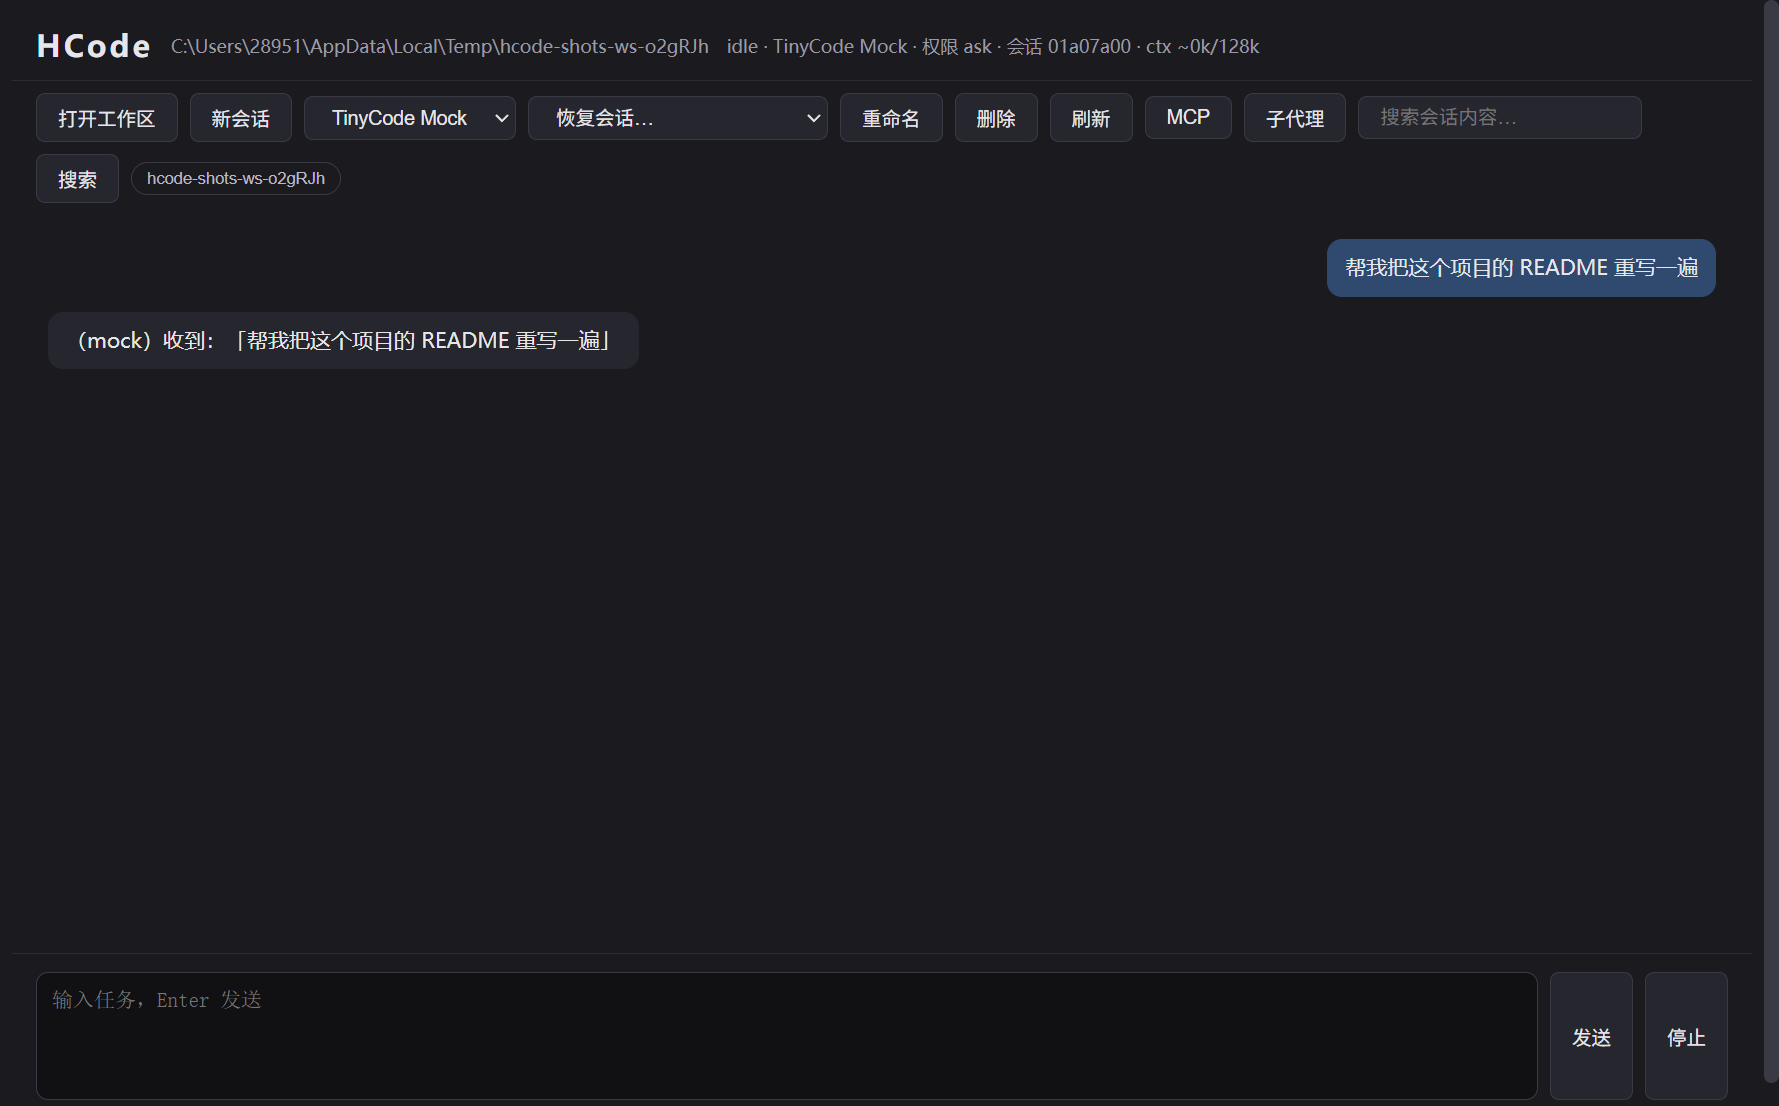
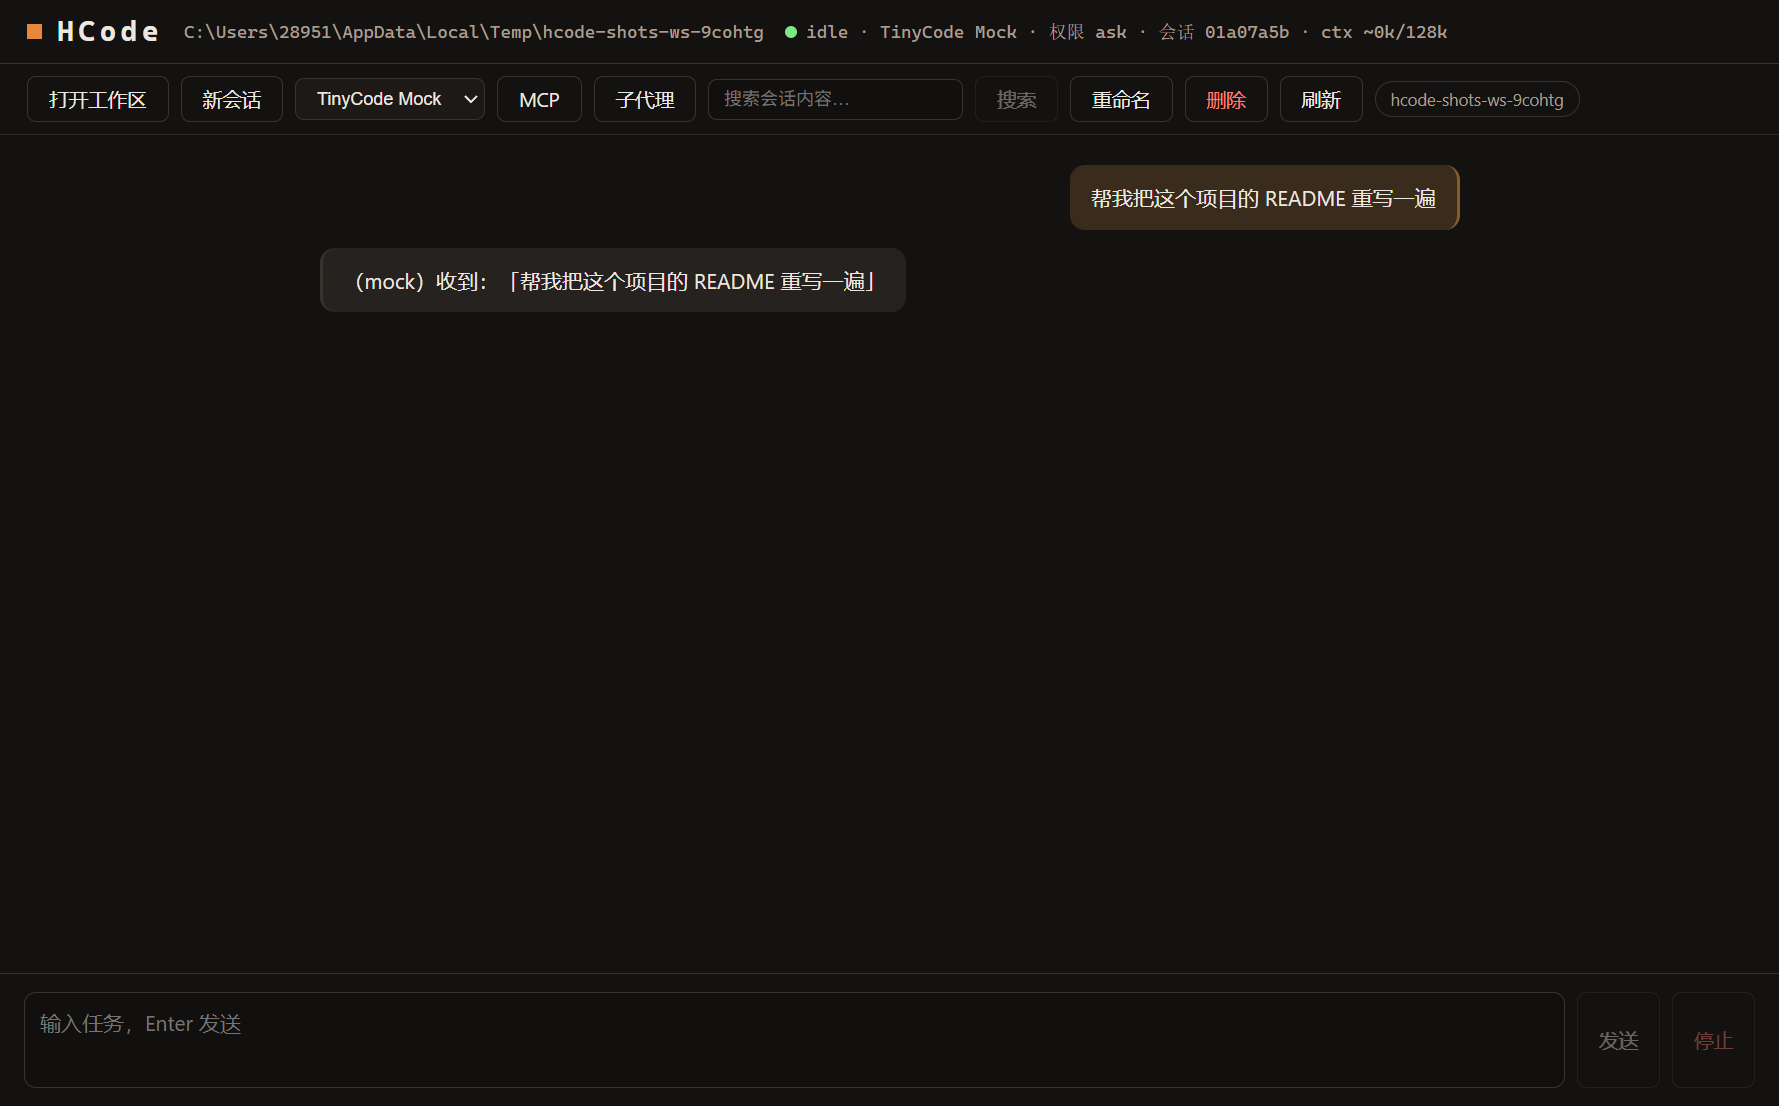
fix(desktop): frontend-design 视觉评审 must-fix——空态炉心点可见 + MCP 面板行 flex 间距 (#25)

Changed region(s): [[0.0, 0.0, 1.0, 1.0], [0.0309, 0.2459, 0.4947, 0.3382], [0.0, 0.8915, 0.1546, 0.953]]

diff --git a/desktop/src/renderer/src/styles.css b/desktop/src/renderer/src/styles.css
@@ -212,3 +212,8 @@ button { font-family: inherit; }
 .search-input { width: 170px; }
 .btn-stop { color: var(--err); position: relative; z-index: 50; }
 .btn-stop:hover:not(:disabled) { border-color: var(--err); background: rgba(255, 123, 114, 0.08); }
+
+/* ── 补丁：面板行 flex 间距 + 空态炉心点 ───────────────────── */
+.panel-static { display: flex; gap: 10px; align-items: baseline; flex-wrap: wrap; }
+.panel-static .ok { color: var(--ok); }
+.dot.idle-empty { background: var(--faint); }

diff --git a/desktop/src/renderer/src/App.tsx b/desktop/src/renderer/src/App.tsx
@@ -363,7 +363,10 @@ export default function App() {
               </span>
             </>
           ) : (
-            <span className="dot" /> // 炉心待燃
+            <>
+              <span className="dot idle-empty" />
+              <span>未装配</span>
+            </>
           )}
         </p>
       </header>
